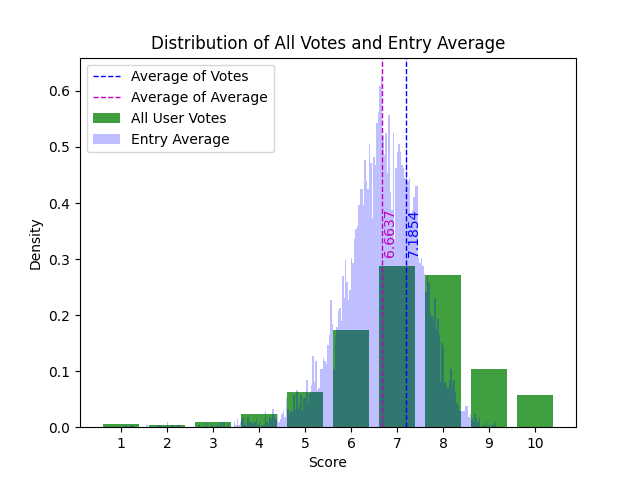
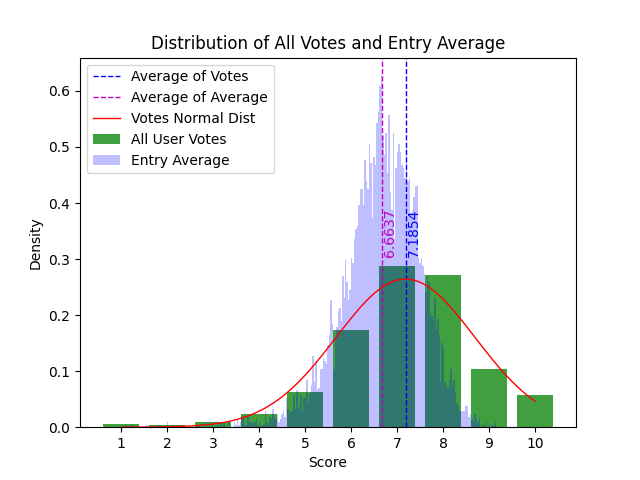
Remove rank vote plot

diff --git a/stat.py b/stat.py
@@ -1,7 +1,7 @@
 import numpy as np
 import pandas as pd
 import matplotlib.pyplot as plt
-from scipy.stats import norm, pearsonr, halfnorm, mode
+from scipy.stats import norm, pearsonr, mode
 
 '''
 STEP3: perform statistical analysis (stat)
@@ -180,11 +180,13 @@ def x_discr(s, x1, name, fname, n, ofile):
     mid_y = plt.ylim()[1] / 1.9
     plt.text(mean + x_diff, mid_y, f"{mean:.4f}", rotation=90, va='center', color='b')
     plt.text(x1_mean + x_diff, mid_y, f"{x1_mean:.4f}", rotation=90, va='center', color='m')
+    lnsp = np.linspace(1, 10, 100)
+    plt.plot(lnsp, norm.pdf(lnsp, loc=mean, scale=std), color='r', linewidth=1)
     plt.title("Distribution of All Votes and Entry Average")
     plt.xlabel("Score")
     plt.ylabel("Density")
     plt.xticks(range(1, 11))
-    plt.legend(["Average of Votes", "Average of Average", "All User Votes", "Entry Average"])
+    plt.legend(["Average of Votes", "Average of Average", "Votes Normal Dist", "All User Votes", "Entry Average"])
     plt.savefig(pre + fname)
     plt.clf()
     ofile.write("\n")
@@ -259,8 +261,8 @@ def main():
     xy(vote, std, "Votes", "Standard Deviation", "vote_std.png", n, ofile, xs='log')
     # rank(x) vs std(y) => data/stat/rank_std.png
     xy(rank, std, "Rank", "Standard Deviation", "rank_std.png", n, ofile)
-    # rank(x) vs vote(y) => data/stat/rank_vote.png
-    xy(rank, vote, "Rank", "Votes", "rank_vote.png", n, ofile)
+    # rank(x) vs vote(y) => data/stat/rank_vote.png; not worth analyzing
+    # xy(rank, vote, "Rank", "Votes", "rank_vote.png", n, ofile)
     # avg(x) vs std(y) => data/stat/avg_std.png
     xy(avg, std, "Average", "Standard Deviation", "avg_std.png", n, ofile)
     # vote(x) vs avg(y) => data/stat/vote_avg.png; R~0.35, no strong correlation
